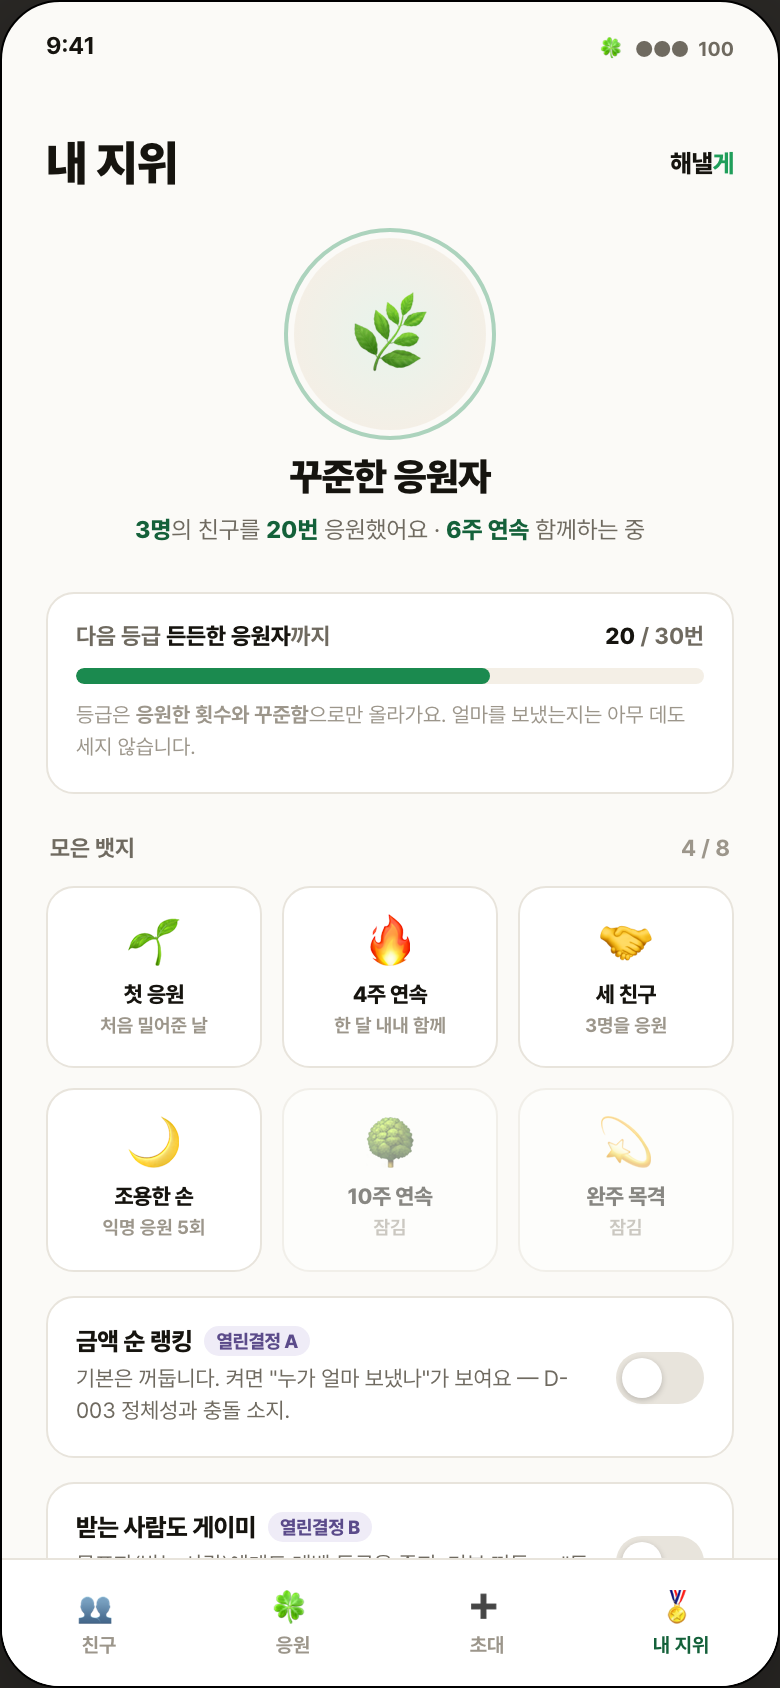
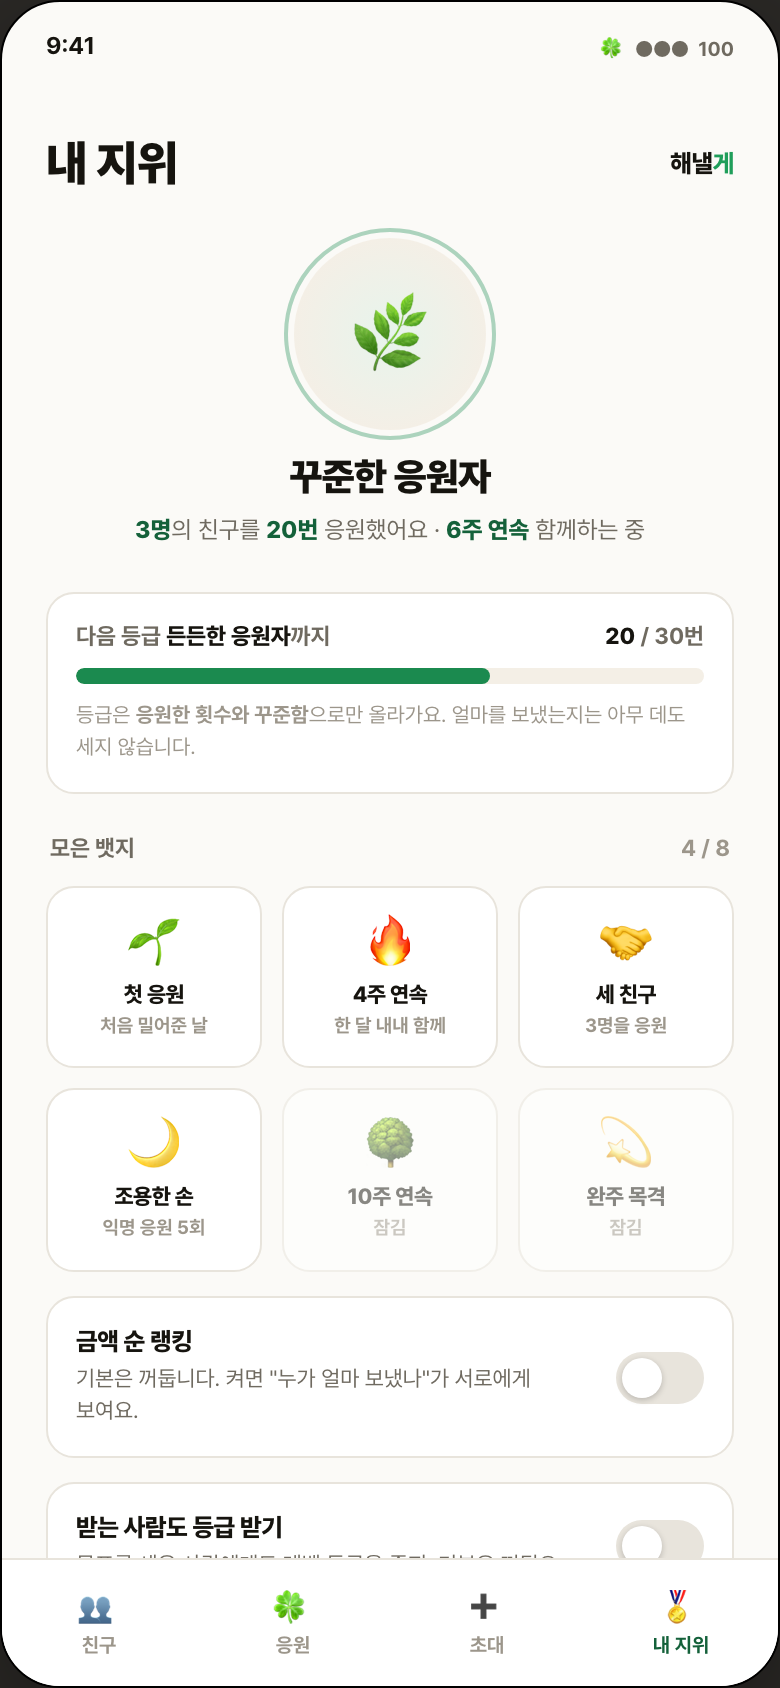
design(v2): 왼쪽 레일에 라우트·진입·diff 글자표기 + 아트보드 안 원칙주석 3곳 검수패널로 이관(§52) + clean-frame 재추출

diff --git a/docs/design/prototypes/social-viral-loop-v2-opus48.html b/docs/design/prototypes/social-viral-loop-v2-opus48.html
@@ -267,7 +267,7 @@
   .stamp{max-width:1120px;margin:0 auto;color:#8a857c;font-size:10.5px;line-height:1.7;padding:18px 20px 40px;border-top:1px solid #35322d;}
   .stamp b{color:#cfc9bf;}
 
-  /* ══ 전역 플로우맵 = 왼쪽 고정 레일 (제품 아님, 검수 셸 · §51) ══ */
+  /* ══ 전역 플로우맵 = 왼쪽 고정 레일 (제품 아님, 검수 셸) ══ */
   body{padding-left:248px;}
   .flowrail{position:fixed;left:0;top:0;width:248px;height:100vh;overflow-y:auto;background:#161513;border-right:1px solid #35322d;padding:16px 14px 40px;z-index:80;}
   .flowrail::-webkit-scrollbar{width:6px;} .flowrail::-webkit-scrollbar-thumb{background:#35322d;border-radius:6px;}
@@ -284,6 +284,18 @@
   .fnode.on .fl{color:#fff;}
   .fnode .fk{display:block;font-size:9px;font-weight:600;color:#8a857c;margin-top:2px;}
   .fnode.on .fk{color:#d8f0e2;}
+  .fnode .fmeta{display:block;margin-top:6px;padding-top:6px;border-top:1px solid #35322d;}
+  .fnode.on .fmeta{border-top-color:rgba(255,255,255,.25);}
+  .fnode .fmeta .ml{display:flex;gap:4px;font-size:8.5px;line-height:1.45;margin-top:3px;}
+  .fnode .fmeta .ml:first-child{margin-top:0;}
+  .fnode .fmeta .mk{flex:0 0 auto;font-weight:800;color:#8fbfa6;}
+  .fnode.on .fmeta .mk{color:#d8f0e2;}
+  .fnode .fmeta .mv{color:#a8a299;font-weight:600;}
+  .fnode.on .fmeta .mv{color:#eef7f1;}
+  .fnode .fmeta .mv code{font-family:ui-monospace,Menlo,monospace;font-size:8px;color:#c9c2b8;background:#2a2823;padding:0 3px;border-radius:3px;}
+  .fnode.on .fmeta .mv code{color:#fff;background:rgba(0,0,0,.22);}
+  .fnode .fmeta .mv.newv{color:#e0a94a;font-weight:800;}
+  .fnode.on .fmeta .mv.newv{color:#ffe3ad;}
   .fnode.newnode{border-style:dashed;border-color:#c98a2b;}
   .fnode.newnode.on{border-style:solid;}
   .fnode .newtag{position:absolute;top:-7px;right:8px;font-size:8px;font-weight:800;color:#1c1b19;background:#c98a2b;padding:1px 5px;border-radius:6px;letter-spacing:.3px;}
@@ -293,7 +305,7 @@
   .flegend{margin-top:16px;padding-top:12px;border-top:1px solid #35322d;font-size:9px;color:#7d786f;line-height:1.6;}
   .flegend b{color:#c98a2b;}
 
-  /* ══ 인물·아바타 = Higgsfield 실사 <img> (§52 이모지 대체 금지) ══ */
+  /* ══ 인물·아바타 = Higgsfield 실사 img (이모지 대체 금지) ══ */
   .av{overflow:hidden;background:#E7F4EC !important;}
   .av img,.ava img{width:100%;height:100%;object-fit:cover;object-position:center 32%;display:block;}
   .ava{width:40px;height:40px;border-radius:var(--r-full);overflow:hidden;flex:0 0 auto;}
@@ -308,50 +320,92 @@
 </head>
 <body>
 
-<!-- ══════════ 전역 플로우맵 · 왼쪽 고정 레일 (제품 아님 · §51) ══════════ -->
+<!-- ══════════ 전역 플로우맵 · 왼쪽 고정 레일 (제품 아님, 아트보드 밖) ══════════ -->
 <aside class="flowrail">
   <div class="rt"><span class="dot">🍀</span> 전역 플로우맵</div>
   <div class="rsub">소셜 바이럴 루프가 <b>기존 배포 화면</b> 위에 어떻게 얹히는지. 지금 보는 화면이 초록, 신규 화면은 주황 점선.</div>
 
   <div class="fgroup">기존 배포 화면 (web/src/app)</div>
-  <div class="fnode" data-loop="_home" onclick="alert('기존 배포 화면(홈/목표 목록). 이 프로토타입 범위 밖 — 하단탭 진입점만 표시.')">
-    <span class="fi">🏠</span><span class="fl">홈 · 하단탭 셸<span class="fk">배포됨 · 여기서 친구/응원/내지위 진입</span></span>
+  <div class="fnode" data-loop="_home">
+    <span class="fi">🏠</span><span class="fl">홈 · 하단탭 셸
+      <span class="fmeta">
+        <span class="ml"><span class="mk">경로</span><span class="mv"><code>web/src/app/(receiver)/page.tsx</code></span></span>
+        <span class="ml"><span class="mk">진입</span><span class="mv">앱 실행 · 로그인 후 랜딩</span></span>
+        <span class="ml"><span class="mk">수정</span><span class="mv">홈: 하단탭에 친구·응원·내지위 진입점 3개 추가</span></span>
+      </span>
+    </span>
   </div>
   <div class="farrow"><span>↓</span><span class="lbl">하단탭 "친구"</span></div>
 
   <div class="fgroup">v2 신규 · 소셜 루프</div>
   <div class="fnode newnode" data-loop="friends" onclick="go('friends')">
     <span class="newtag">NEW</span>
-    <span class="fi">👥</span><span class="fl">② 친구목록 (연결감)<span class="fk">진입: 홈 하단탭 · 초대 성사 후</span></span>
+    <span class="fi">👥</span><span class="fl">② 친구목록 (연결감)
+      <span class="fmeta">
+        <span class="ml"><span class="mk">경로</span><span class="mv"><code>(receiver)/friends</code> · 부여 예정</span></span>
+        <span class="ml"><span class="mk">진입</span><span class="mv">홈 하단탭 "친구" · 초대 성사 후 복귀</span></span>
+        <span class="ml"><span class="mk">상태</span><span class="mv newv">신규 화면</span></span>
+      </span>
+    </span>
   </div>
   <div class="farrow"><span>↓</span><span class="lbl">우상단 + (친구 초대)</span></div>
   <div class="fnode newnode" data-loop="connect" onclick="go('connect')">
     <span class="newtag">NEW</span>
-    <span class="fi">➕</span><span class="fl">① 초대·연결<span class="fk">진입: 친구목록 + · 소속감 큐 재초대</span></span>
+    <span class="fi">➕</span><span class="fl">① 초대·연결
+      <span class="fmeta">
+        <span class="ml"><span class="mk">경로</span><span class="mv"><code>(receiver)/invite</code> · 부여 예정</span></span>
+        <span class="ml"><span class="mk">진입</span><span class="mv">친구목록 우상단 + · 소속감 큐 재초대</span></span>
+        <span class="ml"><span class="mk">상태</span><span class="mv newv">신규 화면</span></span>
+      </span>
+    </span>
   </div>
   <div class="farrow"><span>↺</span><span class="lbl">초대 성사 → 친구목록으로 복귀</span></div>
   <div class="fnode newnode" data-loop="belong" onclick="go('belong')">
     <span class="newtag">NEW</span>
-    <span class="fi">🔓</span><span class="fl">④ 소속감 큐<span class="fk">진입: 친구 카드 탭 → 그 친구의 응원자 자리</span></span>
+    <span class="fi">🔓</span><span class="fl">④ 소속감 큐
+      <span class="fmeta">
+        <span class="ml"><span class="mk">경로</span><span class="mv"><code>(receiver)/friends/[friendId]</code> · 부여 예정</span></span>
+        <span class="ml"><span class="mk">진입</span><span class="mv">친구목록 카드 탭 → 그 친구의 응원자 자리</span></span>
+        <span class="ml"><span class="mk">상태</span><span class="mv newv">신규 화면</span></span>
+      </span>
+    </span>
   </div>
   <div class="farrow loopback"><span>↺</span><span class="lbl">재초대 pull → ① 초대·연결 (루프)</span></div>
   <div class="fnode newnode" data-loop="status" onclick="go('status')">
     <span class="newtag">NEW</span>
-    <span class="fi">🏅</span><span class="fl">③ 응원자 지위<span class="fk">진입: 하단탭 "내 지위"</span></span>
+    <span class="fi">🏅</span><span class="fl">③ 응원자 지위
+      <span class="fmeta">
+        <span class="ml"><span class="mk">경로</span><span class="mv"><code>(receiver)/me/status</code> · 부여 예정</span></span>
+        <span class="ml"><span class="mk">진입</span><span class="mv">홈 하단탭 "내 지위"</span></span>
+        <span class="ml"><span class="mk">상태</span><span class="mv newv">신규 화면</span></span>
+      </span>
+    </span>
   </div>
 
   <div class="fgroup">v2 신규 · 획득(비회원 유입)</div>
-  <div class="fnode" data-loop="_goalpage" onclick="alert('기존 배포 화면(목표 페이지/워드맵, landing-wordmap-i18n). 인스타 링크로 비회원이 도착 — 여기서 도파민 순간으로 이어진다.')">
-    <span class="fi">🌐</span><span class="fl">목표 페이지 · 워드맵<span class="fk">배포됨 · 인스타 링크 유입</span></span>
+  <div class="fnode" data-loop="_goalpage">
+    <span class="fi">🌐</span><span class="fl">목표 페이지 · 워드맵
+      <span class="fmeta">
+        <span class="ml"><span class="mk">경로</span><span class="mv"><code>(receiver)/wordmap/[goalId]</code></span></span>
+        <span class="ml"><span class="mk">진입</span><span class="mv">인스타·카톡 공유 링크 (비회원 도착)</span></span>
+        <span class="ml"><span class="mk">수정</span><span class="mv">워드맵: 비회원 "응원하기" → 도파민 순간 진입 추가</span></span>
+      </span>
+    </span>
   </div>
   <div class="farrow"><span>↓</span><span class="lbl">"응원하기" 탭</span></div>
   <div class="fnode newnode" data-loop="dopamine" onclick="go('dopamine')">
     <span class="newtag">NEW</span>
-    <span class="fi">⚡</span><span class="fl">⚡ 도파민 순간<span class="fk">진입: 목표페이지 응원 · 하단탭 응원</span></span>
+    <span class="fi">⚡</span><span class="fl">⚡ 도파민 순간
+      <span class="fmeta">
+        <span class="ml"><span class="mk">경로</span><span class="mv"><code>(receiver)/wordmap/[goalId]</code> 응원 오버레이 · 부여 예정</span></span>
+        <span class="ml"><span class="mk">진입</span><span class="mv">목표 페이지 응원 탭 · 하단탭 "응원"</span></span>
+        <span class="ml"><span class="mk">상태</span><span class="mv newv">신규 화면 (기존 워드맵 위 오버레이)</span></span>
+      </span>
+    </span>
   </div>
   <div class="farrow loopback"><span>↺</span><span class="lbl">로그인 승격 → 홈/친구목록 (루프)</span></div>
 
-  <div class="flegend"><b>주황 점선</b> = v2 신규 화면. 모든 신규 노드는 <b>기존 배포 화면(홈·목표페이지)</b>에서 화살표로 진입하고, 소속감·도파민에서 초대·홈으로 <b>되돌아 루프</b>를 닫는다. 회색 노드 = 배포 완료(범위 밖).</div>
+  <div class="flegend"><b>주황 점선</b> = v2 신규 화면(경로 부여 예정). 회색 노드 = 기존 배포 화면(경로 실재, 수정 diff 한 줄). 모든 신규 노드는 기존 배포 화면에서 화살표로 진입하고 소속감·도파민에서 초대·홈으로 되돌아 루프를 닫는다.</div>
 </aside>
 
 <div class="console">
@@ -424,11 +478,6 @@
         <div class="accepted">
           <div class="ava"><img src="assets/social-viral/dogyeong.png" alt="윤도경"></div>
           <div class="tx"><b>윤도경</b>님이 초대를 받고 들어왔어요. 이제 친구목록에서 서로의 목표를 볼 수 있어요.</div>
-        </div>
-
-        <div class="opendec">
-          <span class="tag">🟣 열린결정 E · 미확정</span>
-          <p>"친구"를 <b>상호 응원만으로 자동 성립</b>시킬지, <b>초대·수락 명시 관계</b>로 둘지 결정 대기. 이 화면은 초대·수락(명시) 톤으로 그렸습니다. 회장이 보며 정합니다.</p>
         </div>
 
         <div class="safenote"><i>🔒</i><span>연락처를 통째로 읽지 않습니다. 내가 직접 고른 사람에게 카카오·링크로만 초대해요.</span></div>
@@ -565,8 +614,8 @@
 
         <div class="toggle-card">
           <div class="tinfo">
-            <div class="tl">금액 순 랭킹 <span class="badge-you" style="background:var(--violet-soft);color:var(--violet-ink)">열린결정 A</span></div>
-            <div class="td">기본은 꺼둡니다. 켜면 "누가 얼마 보냈나"가 보여요 — D-003 정체성과 충돌 소지.</div>
+            <div class="tl">금액 순 랭킹</div>
+            <div class="td">기본은 꺼둡니다. 켜면 "누가 얼마 보냈나"가 서로에게 보여요.</div>
           </div>
           <div class="sw" id="rankSw" onclick="toggleRank()"></div>
         </div>
@@ -574,13 +623,13 @@
           <div class="rw"><span class="rn">1</span><span>서연 · 82,000원</span></div>
           <div class="rw"><span class="rn">2</span><span>나 · 55,000원</span></div>
           <div class="rw"><span class="rn">3</span><span>도경 · 31,000원</span></div>
-          <div class="warn">⚠ 이렇게 금액이 노출되면 "조용한 응원"이 경쟁이 됩니다. 회장 판단 전까지 기본 OFF 유지.</div>
+          <div class="warn">⚠ 금액이 보이면 조용한 응원이 서로 눈치 보는 경쟁이 될 수 있어요. 그래서 기본은 꺼둬요.</div>
         </div>
 
         <div class="toggle-card">
           <div class="tinfo">
-            <div class="tl">받는 사람도 게이미 <span class="badge-you" style="background:var(--violet-soft);color:var(--violet-ink)">열린결정 B</span></div>
-            <div class="td">목표자(받는 사람)에게도 레벨·등급을 줄지. 기본 꺼둠 — "돈 모으려 목표 만드는" 어뷰징 방지.</div>
+            <div class="tl">받는 사람도 등급 받기</div>
+            <div class="td">목표를 세운 사람에게도 레벨·등급을 줄지. 기본은 꺼둬요.</div>
           </div>
           <div class="sw" onclick="this.classList.toggle('on')"></div>
         </div>
@@ -637,11 +686,6 @@
           <div class="boost-chip"><span class="p">🍀</span> 부스트 클로버 +5</div>
           <div class="bx"><b>환전은 안 되는</b> 응원 부스트예요. 다음에 응원할 때 조용히 얹혀 친구의 워드맵을 더 채워줍니다.</div>
         </div>
-        <div class="opendec">
-          <span class="tag">🟣 열린결정 C · 미확정</span>
-          <p>초대 보상 = <b>환전 불가 부스트 클로버</b>로 그렸습니다. 실클로버 직결은 선불충전금 규제 리스크(존립조건). 보상 없이 관계 배지만 둘지도 회장 결정 대기.</p>
-        </div>
-
         <div class="reinvite" onclick="go('connect')">
           <span class="ic">➕</span>
           <div class="rx">
@@ -695,11 +739,6 @@
         <button class="btn pri" id="cheerBtn" onclick="dropWord()">🍀 조용히 응원하기</button>
 
         <div class="guest-feed"><i>✨</i><span id="guestFeed">네 응원이 여기 쌓였어요. 로그인하면 이 기록이 "내가 응원한 목표"에 남아요.</span></div>
-
-        <div class="opendec">
-          <span class="tag">🟣 도파민 원칙</span>
-          <p>조용함과 양립하는 도파민만 씁니다. <b>내 단어가 실시간으로 얹히는 연출 · 비회원 피드백</b>은 OK. <b>폭죽·랭킹상승 알림은 배제</b>(D-003 위배).</p>
-        </div>
       </div></div>
       <div class="tabbar">
         <a onclick="go('friends')"><span class="ic">👥</span>친구</a>
@@ -716,7 +755,7 @@
 <div class="stamp">
   🏷 STAMP | line: core | 생성: 2026-09-23 07:40 KST | model: claude-opus-4-8 | agent: product-designer | 근거: globals.css·blueprint-v1.0.0·idea-ledger·결정.md D-003/D-009/D-017·friends-invite-v1<br>
   <b>STAMP</b> line=core · social-viral-loop-v2-opus48.html · 생성 2026-09-23 07:40 KST · model claude-opus-4-8 · agent product-designer<br>
-  <b>v2 변경</b> ①왼쪽 전역 플로우맵 고정 레일(신규 화면 ↔ 기존 배포 화면 화살표 연결) ②인물 자리 Higgsfield 실사(seedream_v5_pro) 실사 6종 삽입 — 이모지·이니셜 전량 제거 ③화면별 우측 검수 패널에 v2 개정 변경점(chg) 표출<br>
+  <b>v2 변경</b> ①왼쪽 전역 플로우맵 고정 레일 — 각 노드에 라우터 경로·진입 화면·신규/수정 diff를 레일 위 글자로 표기(신규↔기존 배포 화면 화살표 연결) ②인물 자리 Higgsfield 실사(seedream_v5_pro) 5종 삽입 — 이모지·이니셜 전량 제거 ③화면별 우측 검수 패널에 v2 개정 변경점(chg) 표출 ④아트보드 안 설계·원칙 주석(도파민 원칙·열린결정 배지) 전량 제거 → 검수 패널로 이관(아트보드 주석 0)<br>
   <b>skills</b> design-consultation(방향·토큰 상속 확인) · design-html(hi-fi 목업) · design-review(headless 렌더·클릭·상태토글 QA) · Higgsfield CLI(seedream_v5_pro 실사)<br>
   <b>토큰</b> web/src/app/globals.css 실독(clover #1B8A4F · warm #F4EFE6 · radius 12/14/20 · Pretendard) — 진실원 계승<br>
   <b>근거</b> haenael-v2-blueprint-v1.0.0-opus48.md(§3.4·§5·§6) · idea-ledger #11·#12·#13·2026-09-15·2026-09-21 · one-thing.md · 결정.md D-003·D-009 · 계승 프로토 friends-invite-v1·landing-wordmap-i18n-v2<br>
@@ -736,7 +775,8 @@
         {w:'상단 히어로에 <b>함께 응원하는 친구들 실사</b> 삽입 — "혼자 말고 같이" 카피와 시각 정합.', fb:''},
         {w:'왼쪽 전역 레일에서 <b>친구목록 + → 초대·연결</b> 진입, <b>초대 성사 → 친구목록 복귀</b> 화살표로 흐름 명시.', fb:'회장: "새 화면이 기존에서 어떻게 연결되는지 흐름을 나타내라"'}
       ],
-      flow: [['진입','친구목록(2) 우상단 + / 소속감 큐(4)의 재초대'],['이탈','초대 성사 → 친구목록(2)']]
+      flow: [['진입','친구목록(2) 우상단 + / 소속감 큐(4)의 재초대'],['이탈','초대 성사 → 친구목록(2)']],
+      opendec: '열린결정 E · 미확정: "친구"를 상호 응원만으로 자동 성립시킬지, 초대·수락 명시 관계로 둘지 결정 대기. 이 화면은 초대·수락(명시) 톤으로 그렸다. 회장이 보며 정한다.'
     },
     friends: {
       psych: '사회적 증거(내 사람 버전)+연결감. "N번 함께·6주 연속"은 두 사람만 보는 사적 관계 신호라 과시가 아니라 애착을 쌓는다. 콜드스타트는 정직한 빈 상태로 신뢰(양희연 원칙).',
@@ -758,29 +798,32 @@
         {w:'왼쪽 레일에서 <b>홈 하단탭 "내 지위" → 응원자 지위</b> 진입을 화살표로 명시. 등급링은 <b>인물이 아닌 등급 엠블럼</b>이라 실사 미적용(의도).', fb:'회장: 신규 화면 연결 흐름 표기'},
         {w:'금액 순 랭킹 토글은 <b>기본 OFF + 켜면 경고 미리보기</b> 유지(D-003 "지갑은 조용하게"). v1 정체성 보존.', fb:''}
       ],
-      flow: [['진입','하단탭 내 지위'],['이탈','토글 조작(제품 내 상태) · 탭으로 이동'],['핵심','금액 랭킹 켜면 경고 미리보기 표시 — 회장이 위험을 눈으로 보고 판단']]
+      flow: [['진입','하단탭 내 지위'],['이탈','토글 조작(제품 내 상태) · 탭으로 이동'],['핵심','금액 랭킹 켜면 경고 미리보기 표시 — 회장이 위험을 눈으로 보고 판단']],
+      opendec: '열린결정 A(금액 순 랭킹): 기본 OFF, 켜면 누가 얼마 보냈나 노출 — D-003 "지갑은 조용하게"와 충돌 소지. 화면 안 경고 카피는 사용자용으로 순화(회장 판단 문구는 이 패널로 이관). / 열린결정 B(받는 사람 게이미): 목표자에게도 레벨·등급 줄지. 기본 OFF — "돈 모으려 목표 만드는" 어뷰징 방지. 둘 다 회장 결정 대기.'
     },
     belong: {
       psych: '소속감(in-group)+상호성. "응원자에게만 열리는 근황·타임라인"은 관계 지위를 특권으로 실체화(회장 09-15 "특별한 권한·인지"). 재초대는 푸시가 아니라 pull(#12 준수)로 조용히.',
       bench: 'Patreon 후원자 전용 포스트 · 유튜브 멤버십 배지 · 프로덕트헌트 서포터. "후원자 전용 열림"을 차용하되 금액 티어가 아니라 관계 지속(횟수)으로 연다.',
       inherit: '계승: 열린결정 배지·부스트 칩(friends-invite의 .boost-chip 재사용). 신규 화면: 응원자 전용 근황·타임라인·재초대 pull 카드.',
-      prd: 'idea-ledger 2026-09-15(응원자만 보는 것·재초대) · blueprint §6(정체성 노트)·#20 부스트. 결정 C(부스트 성격) 대기.',
+      prd: 'idea-ledger 2026-09-15(응원자만 보는 것·재초대) · blueprint 6절(정체성 노트)·#20 부스트. 결정 C(부스트 성격) 대기.',
       chg: [
         {w:'도경이의 <b>실사 히어로 사진</b> + 응원자 전용 근황의 <b>작성자 실사 얼굴</b> 삽입 — "응원자에게만 열리는 자리"의 인물 실체화.', fb:'회장: "힉스필드는 안씀? 다시해"'},
         {w:'왼쪽 레일에서 <b>친구 카드 탭 → 소속감 큐</b> 진입, <b>재초대 pull → 초대·연결</b>로 루프백 화살표 명시(루프 닫힘).', fb:'회장: "기존 화면에서 어떻게 연결되는지"'}
       ],
-      flow: [['진입','친구목록(2) 카드 탭 → 그 친구의 응원자 자리'],['이탈','재초대 카드 → 초대(1) · 뒤로 → 친구목록(2)']]
+      flow: [['진입','친구목록(2) 카드 탭 → 그 친구의 응원자 자리'],['이탈','재초대 카드 → 초대(1) · 뒤로 → 친구목록(2)']],
+      opendec: '열린결정 C · 미확정: 초대 보상 = 환전 불가 부스트 클로버로 그렸다. 실클로버 직결은 선불충전금 규제 리스크(존립조건). 보상 없이 관계 배지만 둘지도 회장 결정 대기.'
     },
     dopamine: {
       psych: '즉각 보상(variable reward의 조용한 변형)+진행 가시화. 응원 순간 내 단어가 워드맵에 얹히는 걸 "직접 보게" 해 activation 도파민을 준다. 비회원 피드백은 손실회피("이 기록이 남아요")로 승격을 당김.',
       bench: 'Strava 기록 실시간 반영 · 인스타 좋아요 애니메이션 · 카훗 실시간 집계. "즉각 시각 피드백"을 차용하되 폭죽·순위상승 알림(D-003 위배)은 배제.',
       inherit: '계승: landing-wordmap-i18n-v2의 워드맵 구성·clover-ink 단어색. 신규: 클릭 시 단어 실시간 적립 @keyframes wmland·카운터 bump·비회원 피드백 배너.',
-      prd: 'idea-ledger 2026-09-21(도파민 UX·비회원 activation) · user-flow §2(비로그인 열람·승격 CTA). blueprint §3.2 접합. PRD §5.2 승격 CTA 인접.',
+      prd: 'idea-ledger 2026-09-21(도파민 UX·비회원 activation) · user-flow 2절(비로그인 열람·승격 CTA). blueprint 3.2 접합. PRD 5.2 승격 CTA 인접.',
       chg: [
         {w:'목표 주인공(서연)의 <b>실사 히어로 사진</b> 삽입 — 비회원이 "누구를 응원하는지" 얼굴로 인지.', fb:'회장: "힉스필드는 안씀?"'},
         {w:'왼쪽 레일에서 <b>기존 배포 목표페이지/워드맵 → 도파민 순간</b> 진입, <b>로그인 승격 → 홈</b> 루프백 화살표(비회원 유입 경로가 기존 화면과 이어짐).', fb:'회장: "새 화면 연결 흐름"'}
       ],
-      flow: [['진입','인스타 링크 → 목표페이지(②) / 하단탭 응원'],['이탈','응원하기 → 실시간 적립 → 승격 CTA(로그인)'],['핵심','"조용히 응원하기"를 실제로 눌러 워드맵 적립 애니메이션 확인']]
+      flow: [['진입','인스타 링크 → 목표페이지(②) / 하단탭 응원'],['이탈','응원하기 → 실시간 적립 → 승격 CTA(로그인)'],['핵심','"조용히 응원하기"를 실제로 눌러 워드맵 적립 애니메이션 확인']],
+      opendec: '도파민 원칙: 조용함과 양립하는 도파민만 쓴다. 내 단어가 실시간으로 얹히는 연출·비회원 피드백은 OK. 폭죽·랭킹상승 알림은 배제(D-003 위배). 이 원칙 주석은 화면 밖 이 패널에만 둔다.'
     }
   };
 
@@ -797,12 +840,13 @@
     }
     const flowHtml = '<div class="blk new"><h4><span class="d"></span>진입 · 이탈 flow</h4><div class="flow">' +
       d.flow.map(f=>'<div class="fl"><b>'+f[0]+'</b><span>'+f[1]+'</span></div>').join('') + '</div></div>';
+    const opendecHtml = d.opendec ? '<div class="blk"><h4><span class="d" style="background:#8a6bbf"></span>🟣 열린결정 (제품 화면 밖)</h4><p>'+d.opendec+'</p></div>' : '';
     el.innerHTML =
       '<div class="blk"><h4><span class="d"></span>심리 · 설득 근거</h4><p>'+d.psych+'</p></div>' +
       '<div class="blk"><h4><span class="d"></span>벤치마크</h4><p>'+d.bench+'</p></div>' +
       '<div class="blk"><h4><span class="d"></span>실구현 · 계승 근거</h4><p>'+d.inherit+'</p></div>' +
       '<div class="blk"><h4><span class="d"></span>PRD · 결정 대응</h4><p>'+d.prd+'</p></div>' +
-      flowHtml + chgHtml;
+      flowHtml + opendecHtml + chgHtml;
   }
 
   // 화면 전환
